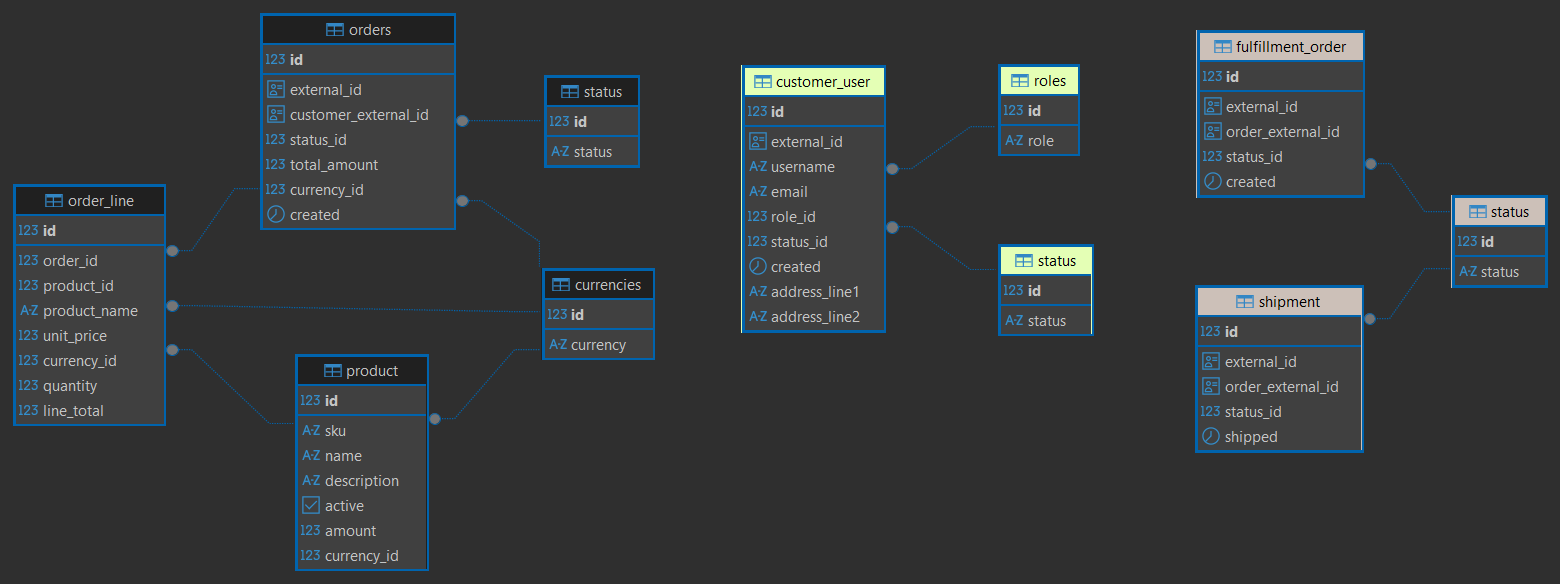
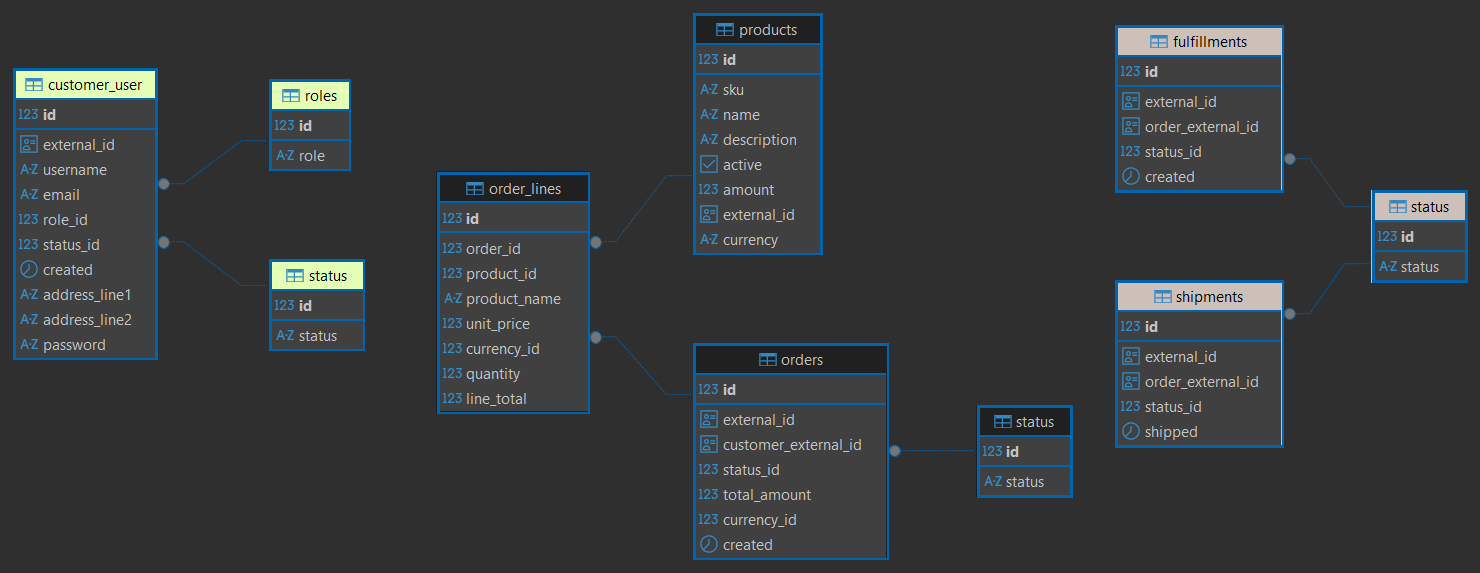
Updated ER diagram + design doc terminology

diff --git a/OrdersProcessor/docs/DesignDoc.md b/OrdersProcessor/docs/DesignDoc.md
@@ -50,7 +50,7 @@ Attributes: id (Long), externalId (UUID), username, email, role, status, externa
 Trade-offs: Simplifies the user-customer mapping; future multi-customers-per-user scenarios would require redesign.
 
 *2.2 Product*  
-Attributes: id (Long), sku, name, description, active, currentPrice (Money) , external_id
+Attributes: id (Long), sku, name, description, active, cost (Money) , external_id
 Trade-offs: no historical prices if products are not included in orders and their price changes in the meantime.   
 However order lines preserve history for already created orders.
 Note: external_id (UUID) was added later for consistency (and in case products ever get split into a different microservice)
@@ -79,7 +79,7 @@ Simplified. Outside the scope of this project (for now).
 *x-USER* request header can be used to identify a user/customer through their unique email
 
 *b. Product selection*  
-Products retrieved via API; sku and currentPrice exposed
+Products retrieved via API; sku and cost exposed
 
 *c. Order creation and management*  
 Order created on first selection; OrderLines preserve currentPrice

diff --git a/OrdersProcessor/docs/journal/daily-journal.md b/OrdersProcessor/docs/journal/daily-journal.md
@@ -84,3 +84,5 @@ OrderProcessor - Daily journal
 - using Money embeddable for Product entity
 - defined product DTOs + mappers and mappers test
 - make product SKU immutable; once created it cannot be changed through a request
+- regenerated OrderProcessor-ER diagram to reflect the latest relational changes
+- 
